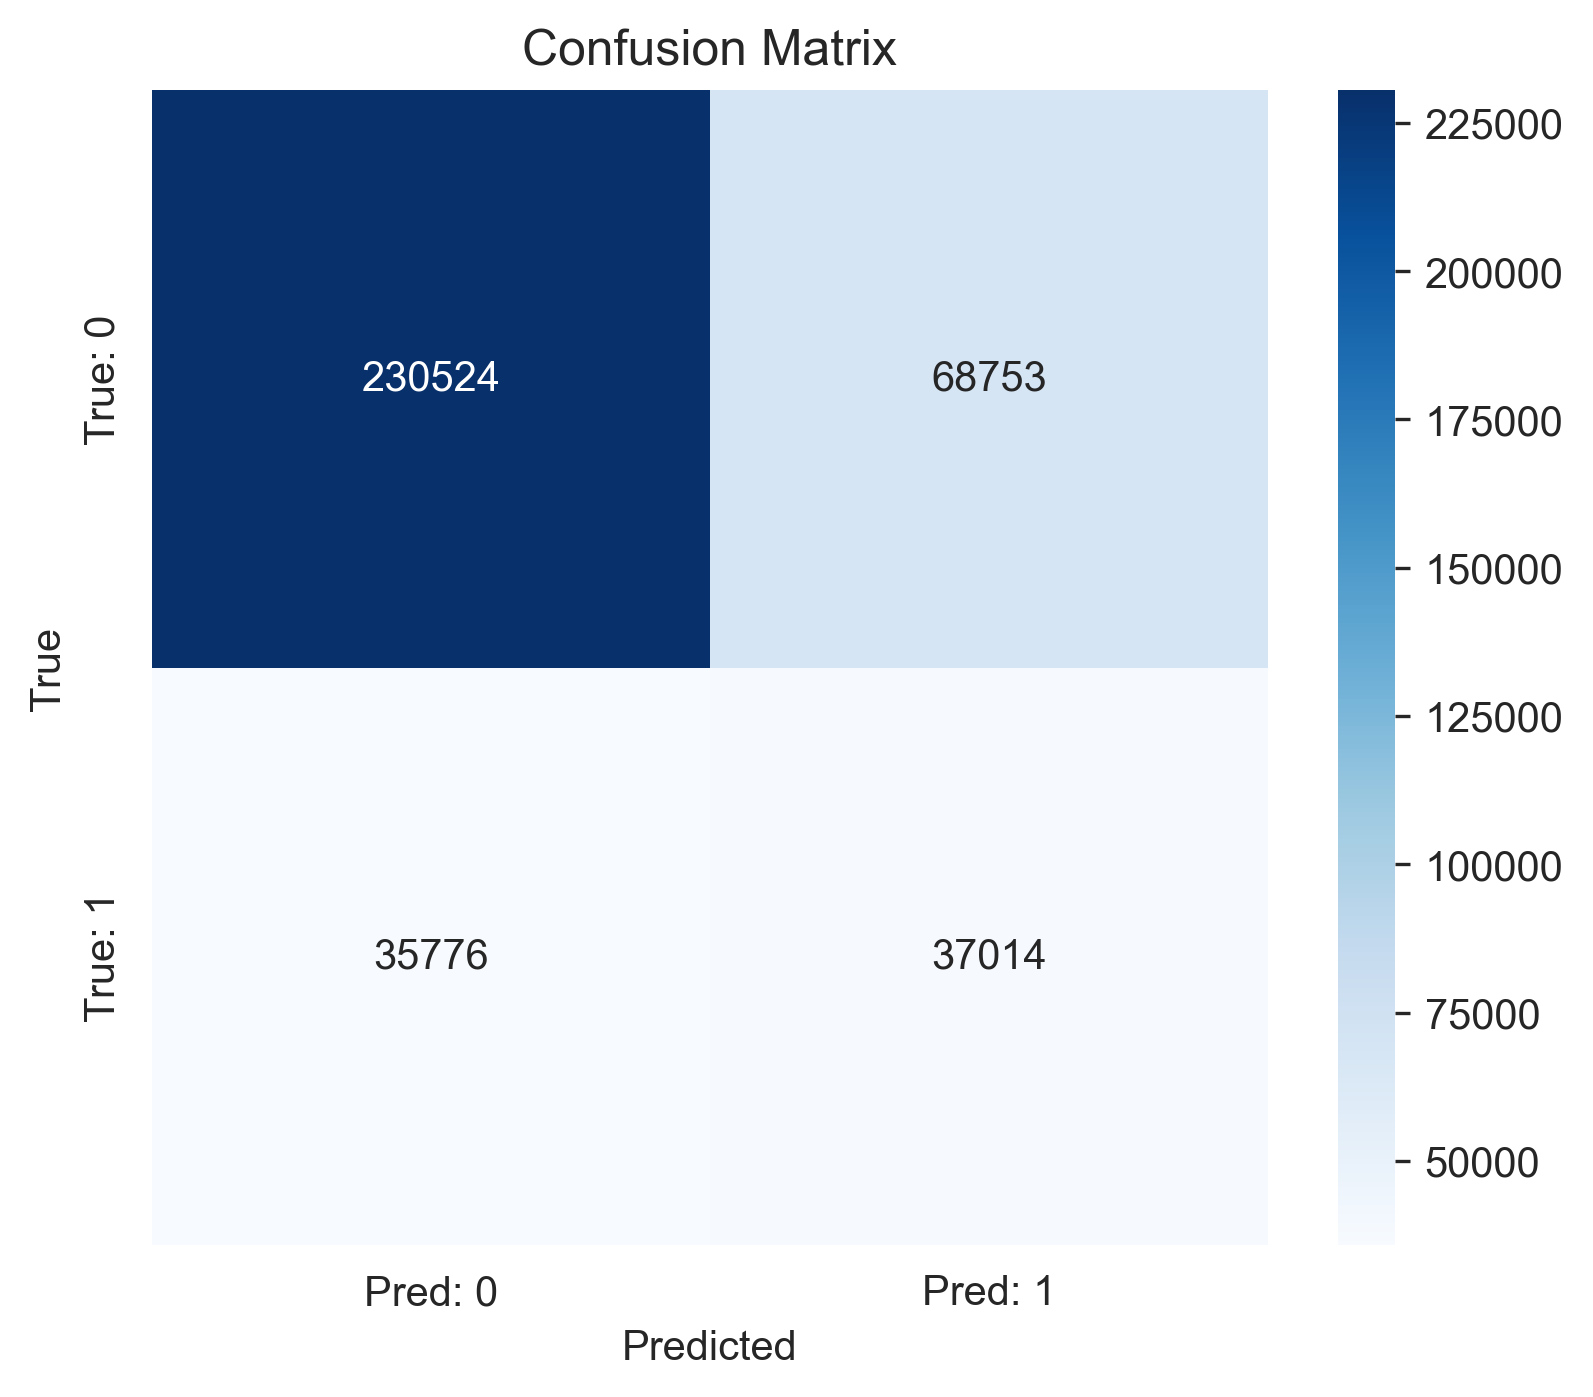
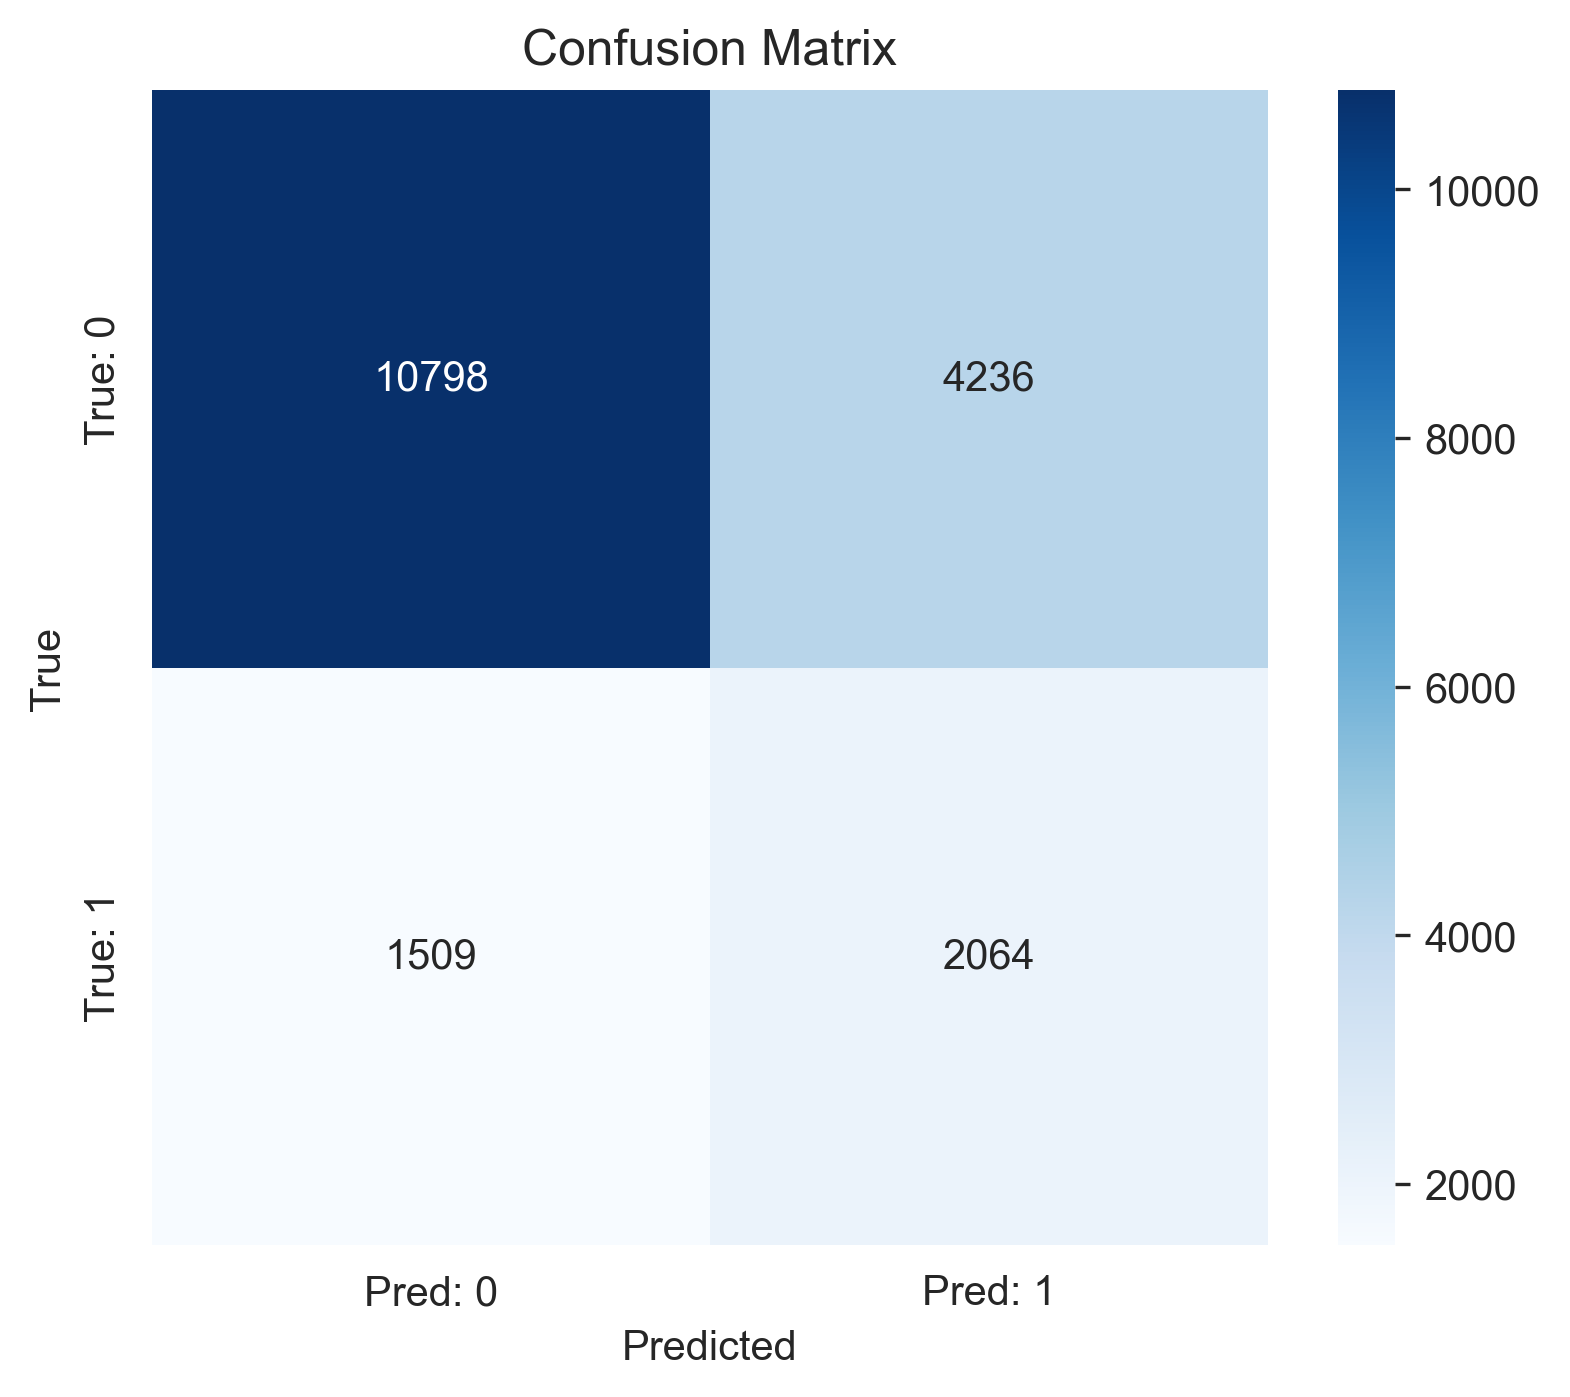
Train model on sampled dataset for easier deployment

diff --git a/tools/scripts/download_dataset.py b/tools/scripts/download_dataset.py
@@ -1,8 +1,30 @@
 import os
+import argparse
 import subprocess
+
+import pandas as pd
+
+
+def sample_and_overwrite(file_path: str, sample_fraction: float = 0.05, seed: int = 42):
+    
+    print("Loading dataset...")
+    df = pd.read_csv(file_path, low_memory=False)
+
+    print(f"Sampling {sample_fraction * 100}% of the dataset...")
+    sampled_df = df.sample(frac=sample_fraction, random_state=seed)
+
+    print("Overwriting the original file with the sampled data...")
+    sampled_df.to_csv(file_path, index=False)
+    print("Done! File overwritten with sampled data.")
 
 
 def download_kaggle_dataset(dataset, target_folder):
+
+    parser = argparse.ArgumentParser(description="Optionally sample and overwrite a large CSV.")
+    parser.add_argument("--sample", action="store_true", help="Sample and overwrite the CSV file.")
+    parser.add_argument("--fraction", type=float, default=0.05, help="Fraction of rows to sample (default 0.05).")
+
+    args = parser.parse_args()
 
     # Ensure the output directory exists
     os.makedirs(target_folder, exist_ok=True)
@@ -36,6 +58,11 @@ def download_kaggle_dataset(dataset, target_folder):
     csv_path = os.path.join(target_folder, csv_file)
 
     os.rename(gzip_path, csv_path)
+
+    if args.sample:
+        sample_and_overwrite(csv_path, args.fraction)
+    else:
+        print("No sampling performed. Use --sample to enable sampling.")
 
     print(f"Dataset ready: {csv_path}")
 
